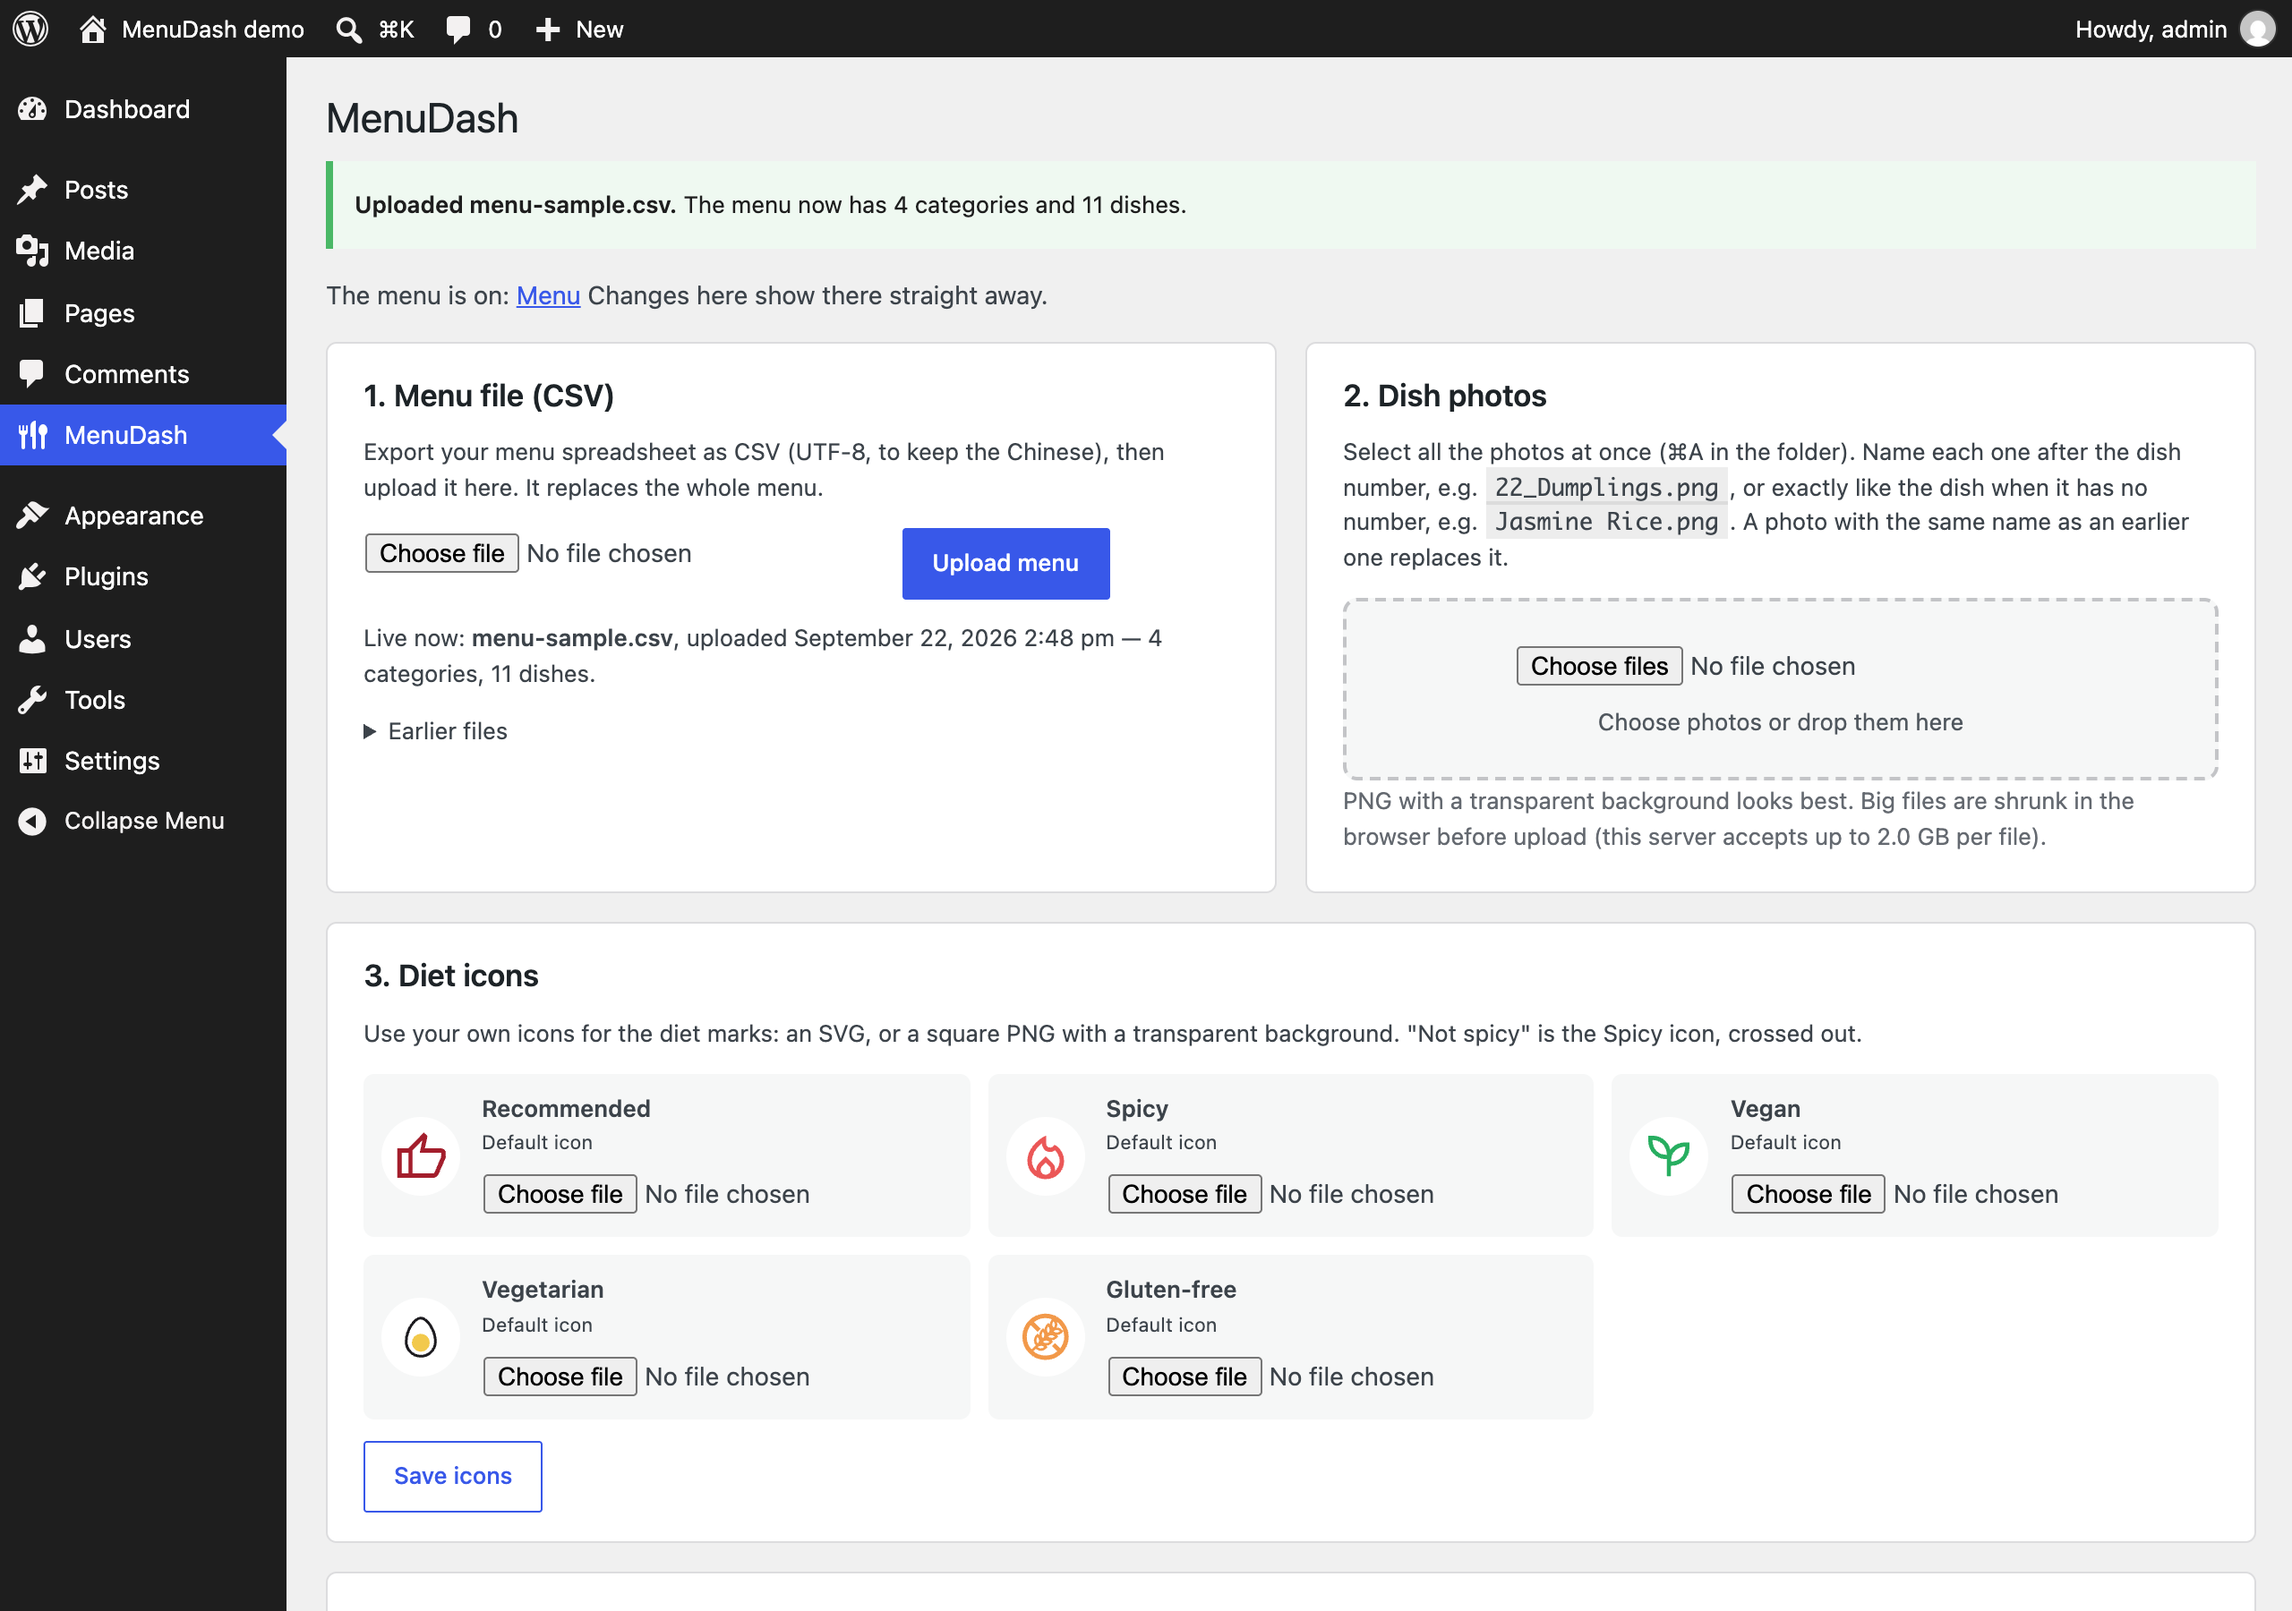
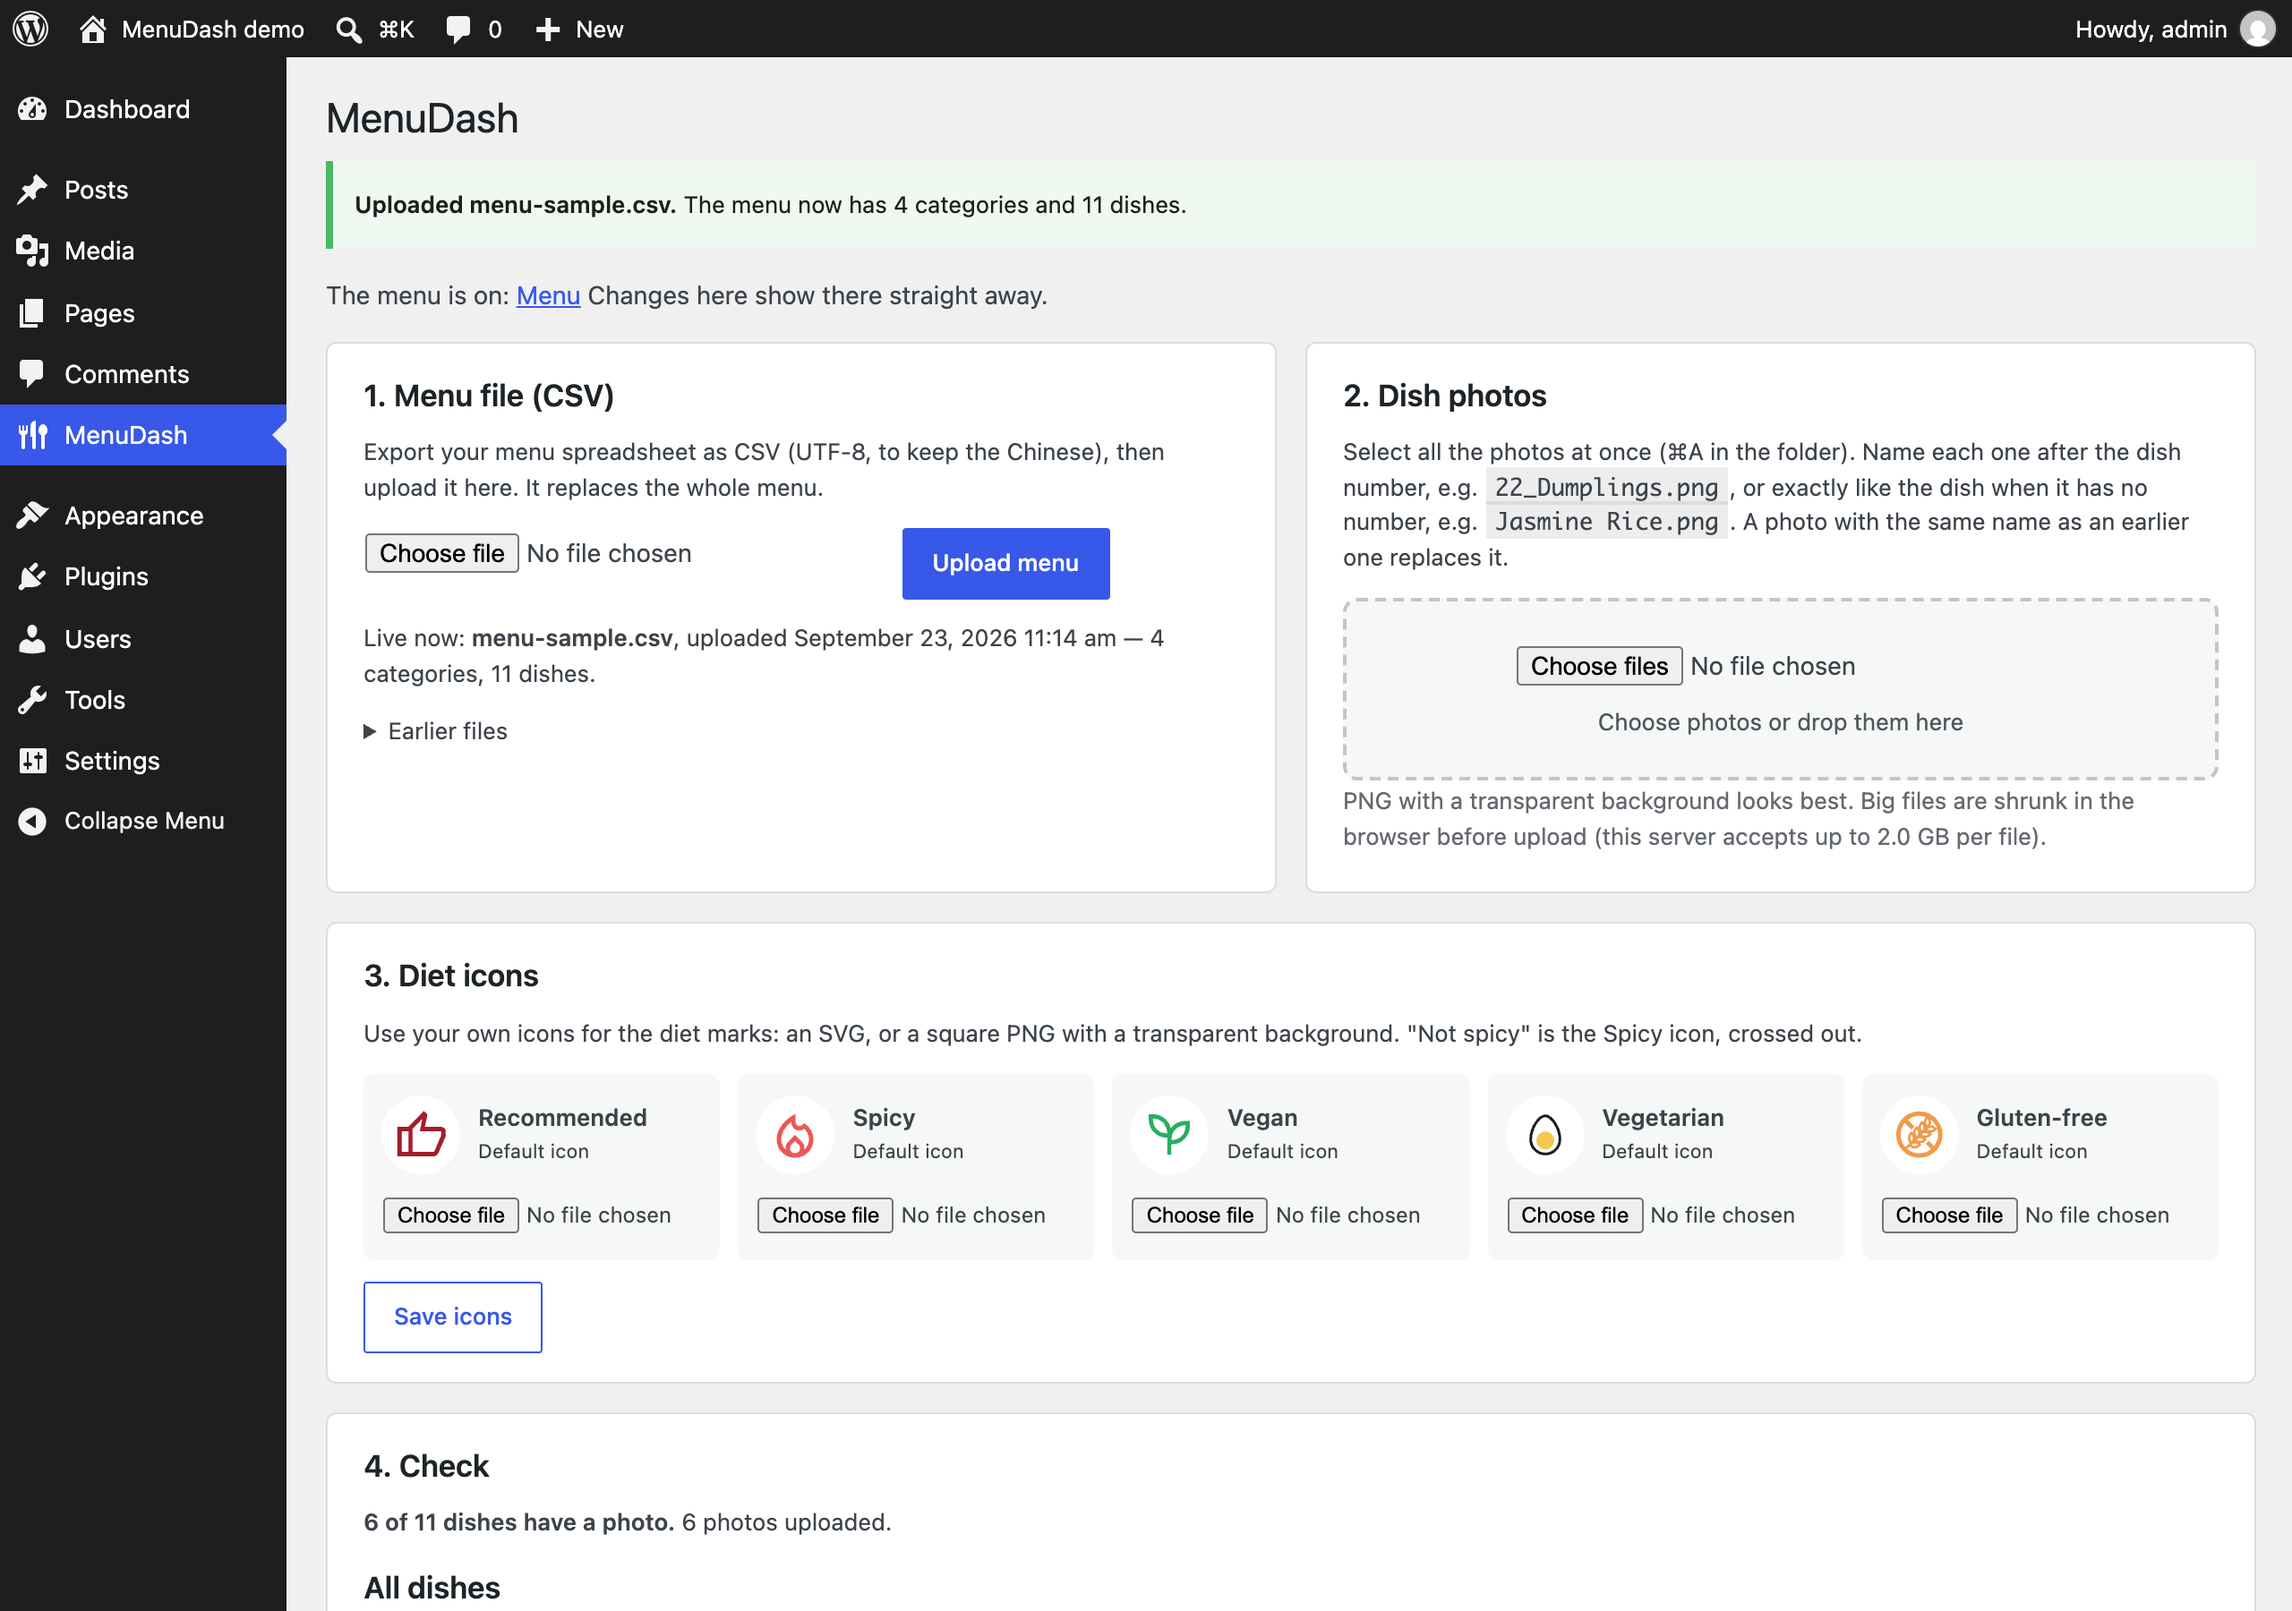
MenuDash 1.1.2: security hardening
- Stored menu CSVs get a random part in their name, so they can't be
  guessed from the upload time, and csv/ gets an .htaccess that closes
  it to the web (Apache). A CSV can hold columns the menu never shows.
- SVG icons: attribute values may only use the characters numbers,
  colours and path data need. CSS escapes like "\75rl(" (= "url(")
  no longer get through. Tests added.
- CSV cells are capped at 1000 characters.
- Photos and raster icons over 40 megapixels are refused before they
  are opened, so a huge image can't run the server out of memory.
- Dashboard screenshots retaken with the new diet icon layout.

diff --git a/dev/svg-test.php b/dev/svg-test.php
@@ -56,6 +56,12 @@ check( ! mdash_clean_svg( $xxe )['ok'], 'DOCTYPE / entities are refused' );
 $utf16 = "\xFF\xFE" . mb_convert_encoding( '<?xml version="1.0" encoding="UTF-16"?><!DOCTYPE svg [<!ENTITY x "#e33">]><svg xmlns="http://www.w3.org/2000/svg" viewBox="0 0 1 1"><path d="M0 0" fill="&x;"/></svg>', 'UTF-16LE', 'UTF-8' );
 check( ! mdash_clean_svg( $utf16 )['ok'], 'a DOCTYPE hidden in UTF-16 is refused too' );
 
+// CSS escapes: browsers read "\75rl(" in a paint value as "url(".
+$esc = '<svg xmlns="http://www.w3.org/2000/svg" viewBox="0 0 24 24"><path d="M1 1h2" fill="\75rl(https://example.com/a.svg#p)"/><path d="M2 2h2" style="fill:u\rl(#x);stroke:#e33;stroke-width:1.5"/><rect width="4" height="4" fill="rgb(10, 20, 30)" transform="translate(2 3) rotate(-45)"/></svg>';
+$r = mdash_clean_svg( $esc );
+check( $r['ok'] && false === strpos( $r['body'], '\\' ) && false === stripos( $r['body'], 'rl(' ), 'CSS-escaped url() values are dropped', $r['body'] );
+check( false !== strpos( $r['body'], 'stroke="#e33"' ) && false !== strpos( $r['body'], 'stroke-width="1.5"' ) && false !== strpos( $r['body'], 'fill="rgb(10, 20, 30)"' ) && false !== strpos( $r['body'], 'transform="translate(2 3) rotate(-45)"' ), 'ordinary colours and transforms are kept', $r['body'] );
+
 check( ! mdash_clean_svg( '<html><body>not an icon</body></html>' )['ok'], 'HTML is refused' );
 check( ! mdash_clean_svg( 'not xml at all' )['ok'], 'broken XML is refused' );
 check( ! mdash_clean_svg( '<svg xmlns="http://www.w3.org/2000/svg" viewBox="0 0 10 10"><script>x</script></svg>' )['ok'], 'an SVG with nothing to draw is refused' );

diff --git a/menudash/includes/menu-store.php b/menudash/includes/menu-store.php
@@ -23,6 +23,10 @@ function mdash_dir( $sub = '' ) {
 	if ( ! file_exists( "$dir/index.php" ) ) {
 		@file_put_contents( "$dir/index.php", "<?php // Silence is golden.\n" ); // phpcs:ignore
 	}
+	// Only PHP reads the CSVs; on Apache the web can't fetch them at all.
+	if ( 'csv' === $sub && ! file_exists( "$dir/.htaccess" ) ) {
+		@file_put_contents( "$dir/.htaccess", "<IfModule mod_authz_core.c>\n\tRequire all denied\n</IfModule>\n<IfModule !mod_authz_core.c>\n\tDeny from all\n</IfModule>\n" ); // phpcs:ignore
+	}
 	return $dir;
 }
 
@@ -64,7 +68,9 @@ function mdash_load_csv( $path, $original_name ) {
 /** Keep an uploaded CSV in csv/ under a dated name, then drop all but the newest few. */
 function mdash_store_csv( $tmp_path, $original_name ) {
 	$dir  = mdash_dir( 'csv' );
-	$base = 'menu-' . gmdate( 'Y-m-d-His' );
+	// The random part keeps the file from being guessed by its upload time: the CSV may
+	// hold columns the menu never shows (costs, notes). csv/ is also closed to the web.
+	$base = 'menu-' . gmdate( 'Y-m-d-His' ) . '-' . wp_generate_password( 12, false );
 	$dest = "$dir/$base.csv";
 	for ( $i = 2; file_exists( $dest ); $i++ ) {
 		$dest = "$dir/$base-$i.csv";

diff --git a/menudash/includes/photo-store.php b/menudash/includes/photo-store.php
@@ -12,6 +12,8 @@
 defined( 'ABSPATH' ) || exit;
 
 const MDASH_SIZES = array( 800, 400 );
+// 40 megapixels, e.g. 7300 × 5500. Opening a larger image could run the server out of memory.
+const MDASH_MAX_PIXELS = 40000000;
 
 function mdash_photo_index() {
 	$f   = mdash_dir( 'photos' ) . '/index.json';
@@ -68,6 +70,9 @@ function mdash_photo_add( $tmp, $name ) {
 	$mime = $info ? $info['mime'] : '';
 	if ( ! in_array( $mime, array( 'image/png', 'image/jpeg', 'image/webp' ), true ) ) {
 		return array( 'ok' => false, 'error' => "$name is not a PNG, JPEG or WebP image." );
+	}
+	if ( $info[0] * $info[1] > MDASH_MAX_PIXELS ) {
+		return array( 'ok' => false, 'error' => "$name is too large ({$info[0]} × {$info[1]} px); save it at most 6000 px wide." );
 	}
 	$alpha               = mdash_has_alpha( $tmp, $mime );
 	list( $ext, $out )   = mdash_photo_format( $alpha );

diff --git a/menudash/menudash.php b/menudash/menudash.php
@@ -2,7 +2,7 @@
 /**
  * Plugin Name:       MenuDash
  * Description:       A restaurant menu for your website, kept in a spreadsheet: upload the menu as CSV and the dish photos under MenuDash, then put [menudash] on a page. Guests read it in German, English and Chinese, all at once or one at a time, and filter by diet.
- * Version:           1.1.1
+ * Version:           1.1.2
  * Requires at least: 6.3
  * Requires PHP:      7.4
  * Author:            insdash
@@ -12,7 +12,7 @@
 
 defined( 'ABSPATH' ) || exit;
 
-define( 'MENUDASH_VERSION', '1.1.1' );
+define( 'MENUDASH_VERSION', '1.1.2' );
 define( 'MENUDASH_NAME', 'MenuDash' );
 define( 'MENUDASH_FILE', __FILE__ );
 define( 'MENUDASH_DIR', plugin_dir_path( __FILE__ ) );

diff --git a/menudash/includes/svg-clean.php b/menudash/includes/svg-clean.php
@@ -111,7 +111,9 @@ function mdash_svg_attrs( $el ) {
 	$keep = array_merge( $keep, $style );
 	$out = '';
 	foreach ( $keep as $name => $value ) {
-		if ( ! in_array( $name, MDASH_SVG_ATTRS, true ) || preg_match( '/url\s*\(|javascript:|expression\s*\(|[<>"]/i', $value ) ) {
+		// Values are numbers, colours and path data: a short list of characters. That
+		// rules out CSS escapes ("\75rl(" reads as "url("), quotes, colons and markup.
+		if ( ! in_array( $name, MDASH_SVG_ATTRS, true ) || ! preg_match( '/^[#\w\s.,%()+-]*$/', $value ) || preg_match( '/url\s*\(|expression\s*\(/i', $value ) ) {
 			continue;
 		}
 		$out .= ' ' . $name . '="' . htmlspecialchars( $value, ENT_QUOTES | ENT_XML1, 'UTF-8' ) . '"';

diff --git a/menudash/includes/icons.php b/menudash/includes/icons.php
@@ -71,6 +71,9 @@ function mdash_icon_set( $key, $tmp, $name ) {
 		if ( ! $info || ! in_array( $info['mime'], array( 'image/png', 'image/jpeg', 'image/webp' ), true ) ) {
 			return array( 'ok' => false, 'error' => "$name is not an SVG, PNG, JPEG or WebP image." );
 		}
+		if ( $info[0] * $info[1] > MDASH_MAX_PIXELS ) {
+			return array( 'ok' => false, 'error' => "$name is too large ({$info[0]} × {$info[1]} px); an icon needs about 96 px." );
+		}
 		$editor = wp_get_image_editor( $tmp );
 		if ( is_wp_error( $editor ) ) {
 			return array( 'ok' => false, 'error' => "$name could not be opened: " . $editor->get_error_message() );

diff --git a/menudash/includes/csv-parser.php b/menudash/includes/csv-parser.php
@@ -207,8 +207,11 @@ function mdash_parse_csv( $bytes ) {
 		}
 	}
 
+	// A menu cell is a few words; 1000 characters keeps the text handling on the page fast
+	// whatever the file holds.
 	$cell = function ( $row, $field ) use ( $col ) {
-		return isset( $col[ $field ], $row[ $col[ $field ] ] ) ? trim( $row[ $col[ $field ] ] ) : '';
+		$s = isset( $col[ $field ], $row[ $col[ $field ] ] ) ? trim( $row[ $col[ $field ] ] ) : '';
+		return strlen( $s ) > 1000 ? trim( preg_replace( '/^(.{0,1000}).*$/su', '$1', $s ) ) : $s;
 	};
 
 	$sections = array();
